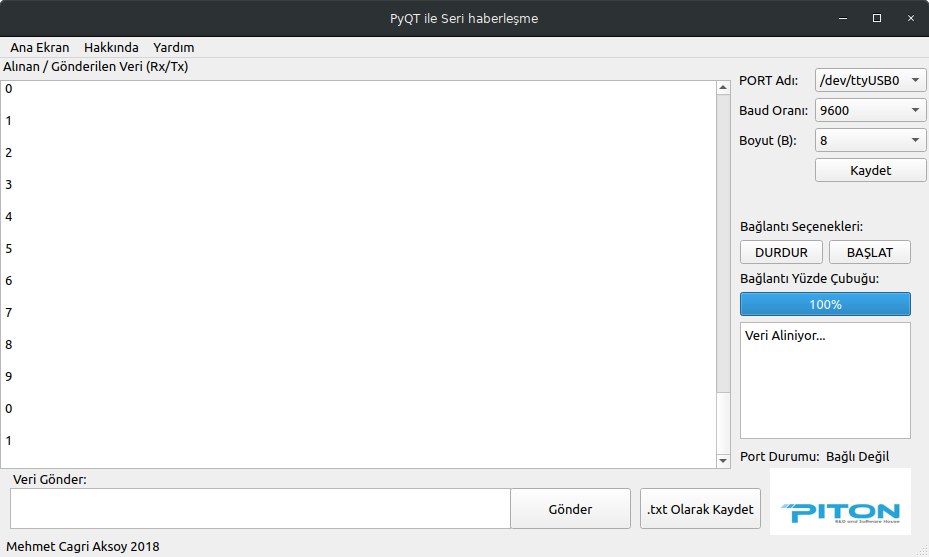
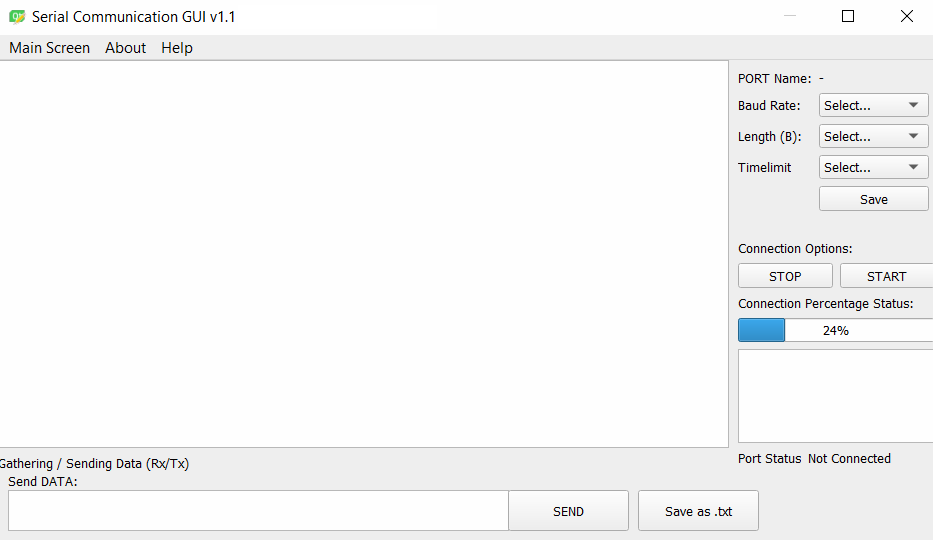
v1.1 Intruduced!
v1.1 Intruduced!

diff --git a/qt.py b/qt.py
@@ -7,7 +7,7 @@ from PyQt5.QtWidgets import QApplication, QComboBox, QDialog, QMainWindow, QWidg
     QListView
 from PyQt5.uic import loadUi
 
-#port tespit etme - baslangic
+#Port Detection START
 ports = [
     p.device
     for p in serial.tools.list_ports.comports()
@@ -15,19 +15,13 @@ ports = [
 ]
 
 if not ports:
-    raise IOError("Seri Baglantili cihaz yok!")
+    raise IOError("There is no device exist on serial port!")
 
 if len(ports) > 1:
-    warnings.warn('Baglanildi....')
+    warnings.warn('Connected....')
 
 ser = serial.Serial(ports[0],9600)
-#port tespit etme - son
-
-
-# class Foo(QThread):
-
-#    def connect(self):
-#        connect(pushButton_2, SIGNAL("clicked()"), on_pushButton_2_clicked)
+#Port Detection END
 
 # MULTI-THREADING
 
@@ -46,8 +40,6 @@ class Worker(QObject):
             print(line)
             time.sleep(0.1)
             self.intReady.emit(line)
-            # if line != '':
-            # self.textEdit_3.append(line)
 
         self.finished.emit()
 
@@ -57,36 +49,32 @@ class qt(QMainWindow):
 
         QMainWindow.__init__(self)
         loadUi('qt.ui', self)
-        # self.comboBox_0.activated.connect(self.load_value0)
-        # self.comboBox_1.activated.connect(self.load_value1)
+
         self.thread = None
         self.worker = None
         self.pushButton.clicked.connect(self.start_loop)
-        # print(self.comboBox_1.itemText(index1))
         self.label_11.setText(ports[0])
 
     def loop_finished(self):
-        print('Looped Finished')
+        print('Loop Finished')
 
     def start_loop(self):
 
-        self.worker = Worker()  # a new worker to perform those tasks
+        self.worker = Worker()   # a new worker to perform those tasks
         self.thread = QThread()  # a new thread to run our background tasks in
-        self.worker.moveToThread(
-            self.thread)  # move the worker into the thread, do this first before connecting the signals
+        self.worker.moveToThread(self.thread)  # move the worker into the thread, do this first before connecting the signals
 
-        self.thread.started.connect(self.worker.work)
-        # begin our worker object's loop when the thread starts running
+        self.thread.started.connect(self.worker.work) # begin our worker object's loop when the thread starts running
 
         self.worker.intReady.connect(self.onIntReady)
 
-        self.pushButton_2.clicked.connect(self.stop_loop)  # stop the loop on the stop button click
+        self.pushButton_2.clicked.connect(self.stop_loop)      # stop the loop on the stop button click
 
-        self.worker.finished.connect(self.loop_finished)  # do something in the gui when the worker loop ends
-        self.worker.finished.connect(self.thread.quit)  # tell the thread it's time to stop running
+        self.worker.finished.connect(self.loop_finished)       # do something in the gui when the worker loop ends
+        self.worker.finished.connect(self.thread.quit)         # tell the thread it's time to stop running
         self.worker.finished.connect(self.worker.deleteLater)  # have worker mark itself for deletion
         self.thread.finished.connect(self.thread.deleteLater)  # have thread mark itself for deletion
-        # make sure those last two are connected to themselves or you will get random crashes
+
         self.thread.start()
 
     def stop_loop(self):
@@ -96,35 +84,21 @@ class qt(QMainWindow):
         self.textEdit_3.append("{}".format(i))
         print(i)
 
-    # def load_value0(self, index0):
-    #     portadi
-    #   self.a2 = self.comboBox_0.itemText(index0)
-
-    #  print(self.comboBox_0.itemText(index0))
-    # self.x = 2
-
-    # def load_value1(self, index1):
-    # baudrate
-    # b2 = self.comboBox_1.itemText(index1)
-    # print(self.comboBox_1.itemText(index1))
-    # self.x = 1
-
-    # ayarlari kaydetme
+    # Save the settings
     def on_pushButton_4_clicked(self):
         if self.x != 0:
-            self.textEdit.setText('Ayarlar Kaydedildi!')
+            self.textEdit.setText('Settings Saved!')
         else:
-            # print('hata')
-            self.textEdit.setText('Lütfen Port ve Hızı girin!')
+            self.textEdit.setText('Please enter port and speed!')
 
-    # TXT YAZDIRMA ------ KAYDETME
+    # TXT Save
     def on_pushButton_5_clicked(self):
         with open('Sonuc.txt', 'w') as f:
             my_text = self.textEdit_3.toPlainText()
             f.write(my_text)
 
     def on_pushButton_2_clicked(self):
-        self.textEdit.setText('Durduruldu! Yeniden Baglanmak icin BAGLAN-a basin...')
+        self.textEdit.setText('Stopped! Please click CONNECT...')
 
     def on_pushButton_clicked(self):
 
@@ -132,17 +106,14 @@ class qt(QMainWindow):
         while self.completed < 100:
             self.completed += 0.001
             self.progressBar.setValue(self.completed)
-        self.textEdit.setText('Veri Aliniyor...')
-
-        # self.label_5.setText('OK!')
-
-        self.label_5.setText("BAĞLANDI!")
+        self.textEdit.setText('Data Gathering...')
+        self.label_5.setText("CONNECTED!")
         self.label_5.setStyleSheet('color: green')
         x = 1
         self.textEdit_3.setText(":")
 
     def on_pushButton_3_clicked(self):
-        # serial porttan veri gonder:
+        # Send data from serial port:
         mytext = self.textEdit_2.toPlainText()
         print(mytext.encode())
         ser.write(mytext.encode())
@@ -152,7 +123,6 @@ def run():
     widget = qt()
     widget.show()
     sys.exit(app.exec_())
-
 
 if __name__ == "__main__":
     run()

diff --git a/README.md b/README.md
@@ -1,3 +1,21 @@
+# 2022 FEBRUARY UPDATE
+V1.1 INTRODUCED
+
+CHANGELOG:
+- Source code updated
+- Bug fixes and performance updates
+- GUI updated, now better! faster!
+- English language is added.
+
+For serial communication tests, the "serial.ino" file can be investigated!
+
+New UI:
+![Project](https://github.com/mcagriaksoy/Serial-Communication-GUI-Program/blob/master/1.png)
+
+
+--------------------------------------------------
+
+# NOTES FROM 2018
 NOTE: Program Language is Turkish, but It can be easily adopted and translated to other languages freely.
 
 # Serial-Communication-GUI-Program
@@ -6,7 +24,6 @@ During my test releases, I have tried NodeMCU and Arduino cards. Also, the progr
 
 # Feature 1
 On the right side of the GUI, you can access the port options. After you selected baud rate, port name, etc. you can save your settings via "kaydet" button which means save exactly.
-
 
 # Feature 2
 Python PyQt threading, multitasking feature added. Due to multitasking function, the program does not crash (one of the thread keen on serial port listen, other does rest of tasks) and uses less memory. 
@@ -31,17 +48,11 @@ class Worker(QObject):
         self.finished.emit()
  ```       
 
-
-
 # Multitasking
 Thread1 listen COM port and convert data to UTF-8
 
 Thread2 send data to serially connected hardware (Arduino, esp32, raspberry pi, etc.) also, control the buttons
 
-![Project](https://github.com/mcagriaksoy/Serial-Communication-GUI-Program/blob/master/1.png)
-
 # PyQt5
 The program is using Pyqt5 instead of the 4th version of PyQt.
 
-
-# License Status: MIT
